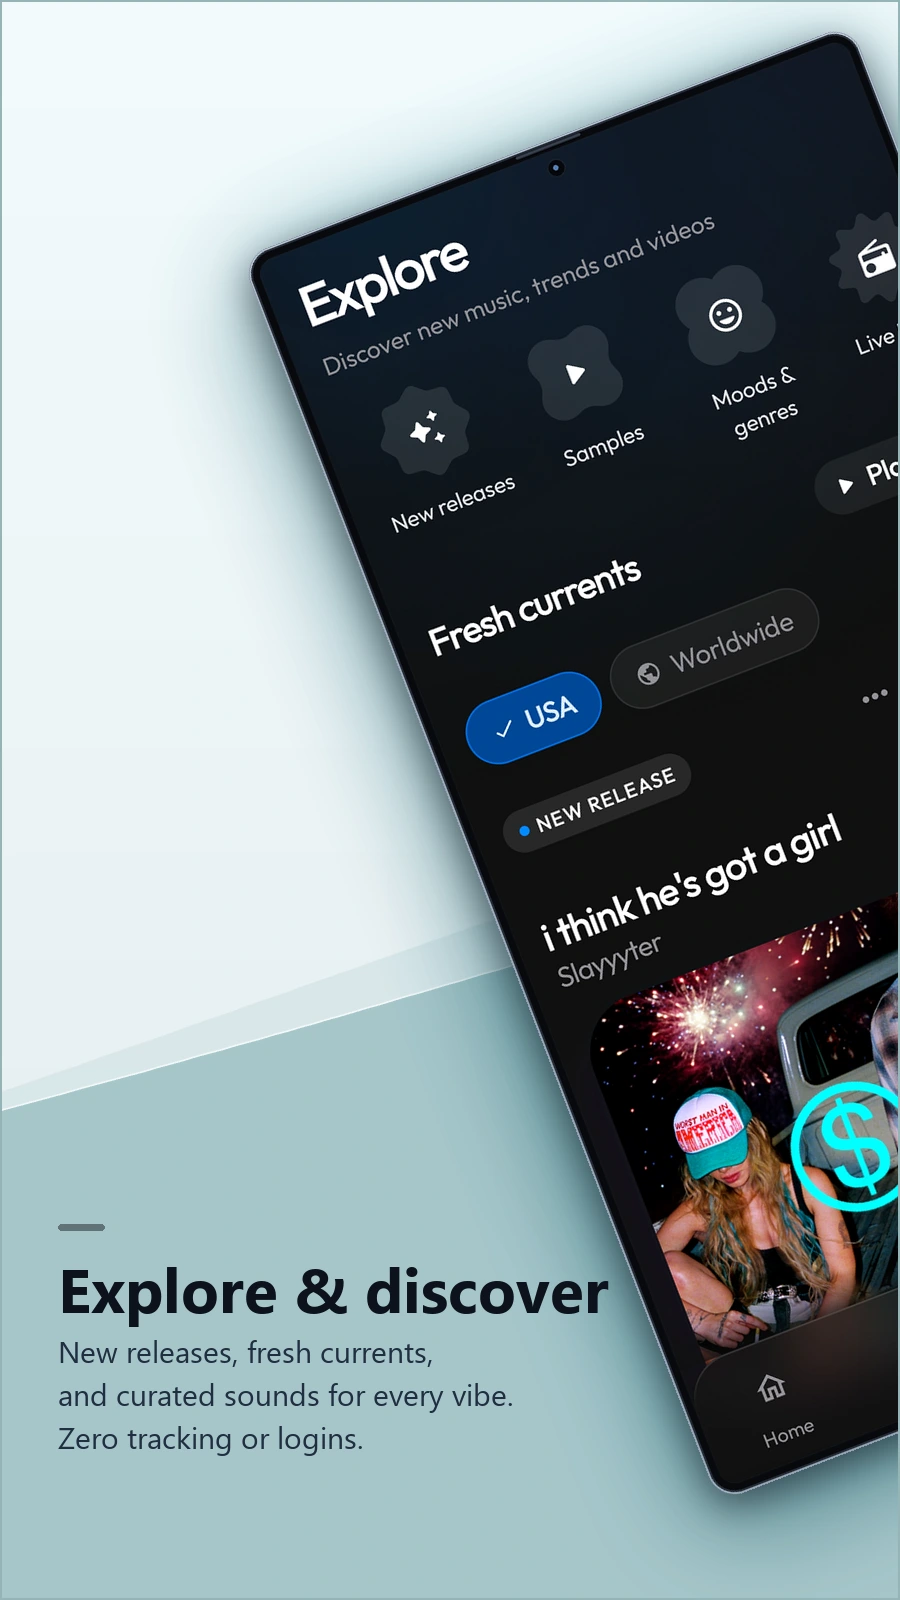
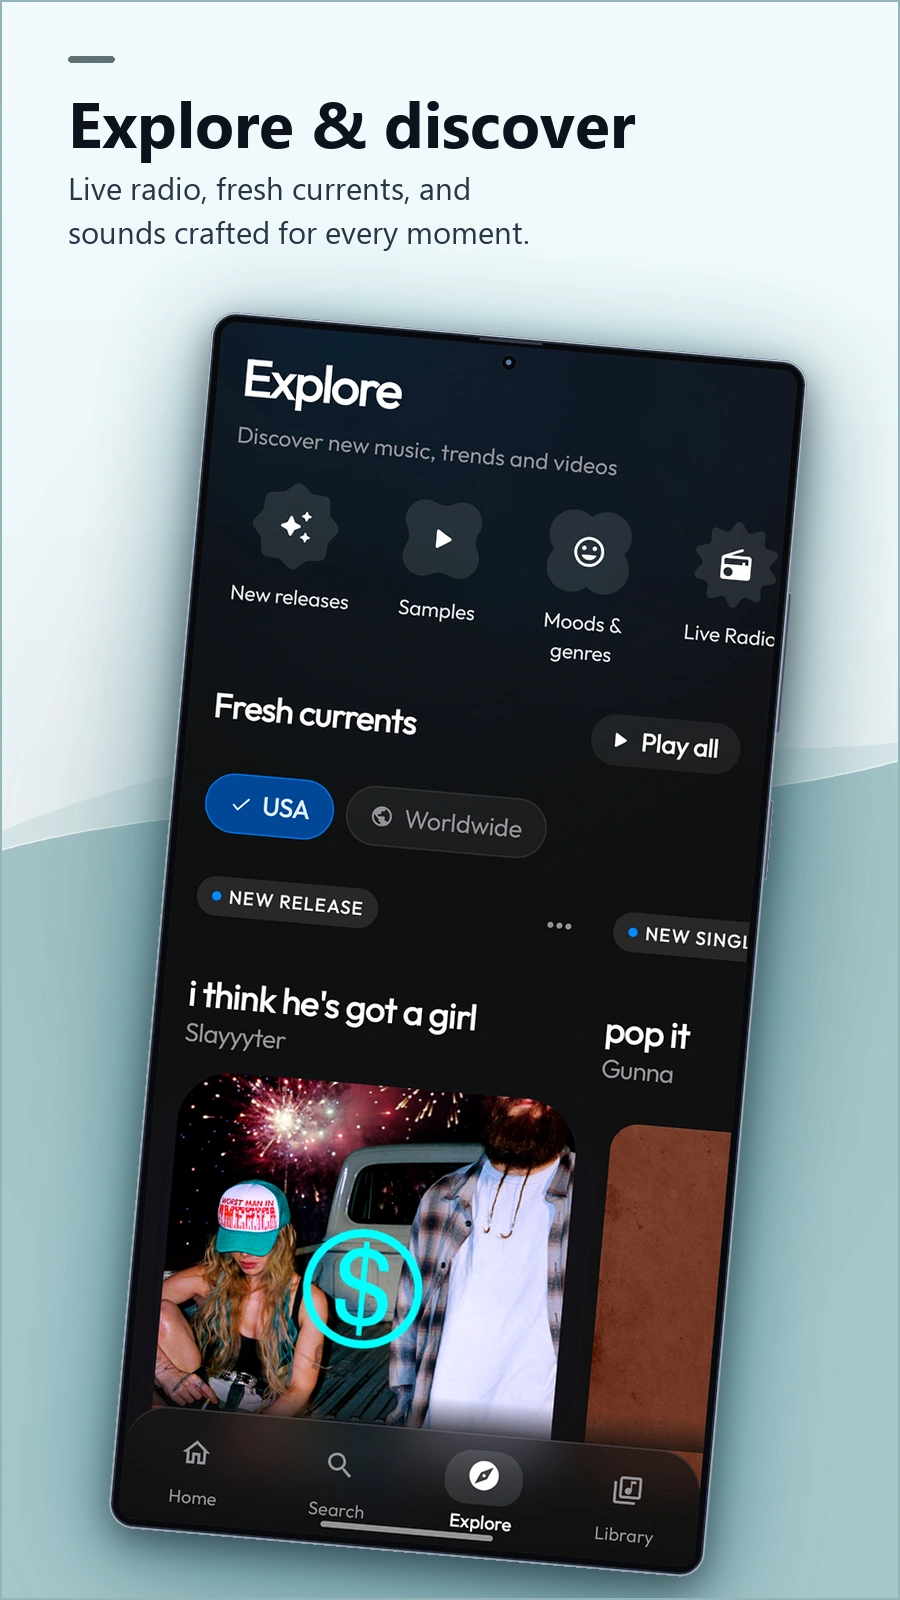
docs(readme): replace cut diptych with symmetrical duo showcase for Explore and Mix

diff --git a/scripts/generate_showcase_assets.py b/scripts/generate_showcase_assets.py
@@ -487,88 +487,69 @@ def generate_explore_mix_card(card_w, card_h):
     bg.convert("RGB").save(out_path, "WEBP", quality=94, method=4)
     print(f"Generated Dual Explore & Mix Card: {out_path}")
 
-def generate_explore_mix_diptych(card_w, card_h):
+def generate_explore_mix_duo(card_w, card_h):
     s1_path = resolve_screenshot_path("Screenshot_20261010_132210_LEVYRA.jpg")
     s2_path = resolve_screenshot_path("Screenshot_20261010_132217_LEVYRA.jpg")
     if not s1_path or not s2_path:
-        print("Skipping explore mix diptych: missing screenshots")
+        print("Skipping explore mix duo: missing screenshots")
         return
 
-    gutter = 20
-    pano_w = card_w * 2 + gutter
-    pano_h = card_h
-
     C_SEAFOAM = ((238, 246, 248), (166, 198, 202), (145, 188, 192))
-    top_tint, accent_tone, glow_tone = C_SEAFOAM
+    C_SAPPHIRE = ((238, 244, 252), (162, 188, 222), (140, 175, 215))
 
-    pano_bg = create_delicate_bg(
-        pano_w,
-        pano_h,
-        top_tint=top_tint,
-        accent_tone=accent_tone,
-        glow_tone=glow_tone,
-        y_start=1110,
-        y_end=580,
+    # Card 05: Explore & discover
+    bg5 = create_delicate_bg(card_w, card_h, C_SEAFOAM[0], C_SEAFOAM[1], C_SEAFOAM[2], y_start=850, y_end=760)
+    draw5 = ImageDraw.Draw(bg5)
+    draw_accent_pill(draw5, 68, 56, C_SEAFOAM[1])
+    draw5.text((68, 78), "Explore & discover", font=get_font(64, bold=True), fill=(12, 18, 28, 255))
+    draw5.multiline_text(
+        (68, 166),
+        "Live radio, fresh currents, and\nsounds crafted for every moment.",
+        font=get_font(31),
+        fill=(40, 54, 68, 255),
+        spacing=10,
     )
-
-    rot_angle = 21.0
-
-    with Image.open(s2_path) as src2:
-        phone_mix = create_clean_phone(src2, target_height=1150)
-    rot_mix = phone_mix.rotate(rot_angle, resample=Image.Resampling.BICUBIC, expand=True)
-
-    g2, gpad2 = create_colored_glow(rot_mix, (25, 125, 245), blur=60, opacity=80, offset_y=20)
-    mix_x = card_w + gutter + 255
-    mix_y = 435
-    pano_bg.paste(g2, (mix_x - gpad2, mix_y - gpad2), g2)
-    paste_phone_with_studio_depth(pano_bg, rot_mix, mix_x, mix_y)
 
     with Image.open(s1_path) as src1:
-        phone_explore = create_clean_phone(src1, target_height=1310)
-    rot_explore = phone_explore.rotate(rot_angle, resample=Image.Resampling.BICUBIC, expand=True)
+        phone1 = create_clean_phone(src1, target_height=1200)
+    rot1 = phone1.rotate(-5, resample=Image.Resampling.BICUBIC, expand=True)
+    glow1, gp1 = create_colored_glow(rot1, (0, 205, 230), blur=55, opacity=70, offset_y=16)
+    px1 = (card_w - rot1.width) // 2 + 10
+    py1 = 310
+    bg5.paste(glow1, (px1 - gp1, py1 - gp1), glow1)
+    paste_phone_with_studio_depth(bg5, rot1, px1, py1)
 
-    g1, gpad1 = create_colored_glow(rot_explore, (0, 205, 230), blur=55, opacity=75, offset_y=16)
-    exp_x = 240
-    exp_y = 22
-    pano_bg.paste(g1, (exp_x - gpad1, exp_y - gpad1), g1)
-    paste_phone_with_studio_depth(pano_bg, rot_explore, exp_x, exp_y)
+    border_col5 = tuple(max(0, int(C_SEAFOAM[1][i] - 18)) for i in range(3))
+    ImageDraw.Draw(bg5).rectangle((0, 0, card_w - 1, card_h - 1), outline=(*border_col5, 90), width=2)
+    bg5.convert("RGB").save(os.path.join(OUT_CARDS_DIR, "05_explore.webp"), "WEBP", quality=94, method=4)
 
-    pdraw = ImageDraw.Draw(pano_bg)
-
-    c1_tx, c1_ty = 58, 1246
-    draw_accent_pill(pdraw, c1_tx, c1_ty - 22, accent_tone)
-    pdraw.text((c1_tx, c1_ty), "Explore & discover", font=get_font(62, bold=True), fill=(12, 18, 28, 255))
-    pdraw.multiline_text(
-        (c1_tx, c1_ty + 84),
-        "New releases, fresh currents,\nand curated sounds for every vibe.\nZero tracking or logins.",
-        font=get_font(30),
-        fill=(32, 46, 64, 255),
-        spacing=10,
-    )
-
-    c2_left = card_w + gutter
-    text_x = c2_left + 215
-    text_y = 78
-    draw_accent_pill(pdraw, text_x, text_y - 22, accent_tone)
-    pdraw.text((text_x, text_y), "Levyra Mix & radio", font=get_font(64, bold=True), fill=(12, 18, 28, 255))
-    pdraw.multiline_text(
-        (text_x, text_y + 86),
-        "Interactive slider between familiar and new.\nLive radio stations streaming 24/7.",
+    # Card 06: Levyra Mix
+    bg6 = create_delicate_bg(card_w, card_h, C_SAPPHIRE[0], C_SAPPHIRE[1], C_SAPPHIRE[2], y_start=760, y_end=850)
+    draw6 = ImageDraw.Draw(bg6)
+    draw_accent_pill(draw6, 68, 56, C_SAPPHIRE[1])
+    draw6.text((68, 78), "Levyra Mix", font=get_font(64, bold=True), fill=(12, 18, 28, 255))
+    draw6.multiline_text(
+        (68, 166),
+        "Interactive slider between familiar and new.\nTuned for right now in one tap.",
         font=get_font(31),
-        fill=(38, 52, 68, 255),
+        fill=(40, 54, 68, 255),
         spacing=10,
     )
 
-    card_05 = pano_bg.crop((0, 0, card_w, card_h))
-    card_06 = pano_bg.crop((c2_left, 0, pano_w, card_h))
+    with Image.open(s2_path) as src2:
+        phone2 = create_clean_phone(src2, target_height=1200)
+    rot2 = phone2.rotate(5, resample=Image.Resampling.BICUBIC, expand=True)
+    glow2, gp2 = create_colored_glow(rot2, (25, 125, 245), blur=55, opacity=75, offset_y=16)
+    px2 = (card_w - rot2.width) // 2 - 10
+    py2 = 310
+    bg6.paste(glow2, (px2 - gp2, py2 - gp2), glow2)
+    paste_phone_with_studio_depth(bg6, rot2, px2, py2)
 
-    border_col = tuple(max(0, int(accent_tone[i] - 18)) for i in range(3))
-    ImageDraw.Draw(card_05).rectangle((0, 0, card_w - 1, card_h - 1), outline=(*border_col, 90), width=2)
-    ImageDraw.Draw(card_06).rectangle((0, 0, card_w - 1, card_h - 1), outline=(*border_col, 90), width=2)
+    border_col6 = tuple(max(0, int(C_SAPPHIRE[1][i] - 18)) for i in range(3))
+    ImageDraw.Draw(bg6).rectangle((0, 0, card_w - 1, card_h - 1), outline=(*border_col6, 90), width=2)
+    bg6.convert("RGB").save(os.path.join(OUT_CARDS_DIR, "06_levyra_mix.webp"), "WEBP", quality=94, method=4)
 
-    card_05.convert("RGB").save(os.path.join(OUT_CARDS_DIR, "05_explore.webp"), "WEBP", quality=93, method=4)
-    card_06.convert("RGB").save(os.path.join(OUT_CARDS_DIR, "06_levyra_mix.webp"), "WEBP", quality=93, method=4)
-    print("Generated Explore Diptych Cards: 05_explore.webp, 06_levyra_mix.webp")
+    print("Generated Explore Duo Cards: 05_explore.webp, 06_levyra_mix.webp")
 
 def generate_feature_cards():
     card_w, card_h = 900, 1600
@@ -650,7 +631,7 @@ def generate_feature_cards():
     print("Generated Hero Cards: 01_home.webp, 02_stay_with_the_song.webp")
 
     generate_explore_mix_card(card_w, card_h)
-    generate_explore_mix_diptych(card_w, card_h)
+    generate_explore_mix_duo(card_w, card_h)
 
     C_CELESTE = ((238, 245, 250), (170, 196, 218), (148, 185, 210))
     C_SAGE = ((238, 246, 242), (168, 198, 188), (145, 185, 172))

diff --git a/README.md b/README.md
@@ -129,8 +129,8 @@ Enhanced Audio is on by default and can be turned off in Audio Settings. Technic
   <a href="docs/assets/showcase/cards/04_player_deck.webp"><img src="docs/assets/showcase/cards/04_player_deck.webp?v=s26ultra-20261010" width="200" alt="Levyra customizable player decks" /></a>
 </p>
 <p align="center">
-  <a href="docs/assets/showcase/cards/05_explore.webp"><img src="docs/assets/showcase/cards/05_explore.webp?v=s26ultra-20261010" width="200" alt="Levyra explore and fresh currents" /></a>
-  <a href="docs/assets/showcase/cards/06_levyra_mix.webp"><img src="docs/assets/showcase/cards/06_levyra_mix.webp?v=s26ultra-20261010" width="200" alt="Levyra custom mix and live radio" /></a>
+  <a href="docs/assets/showcase/cards/05_explore.webp"><img src="docs/assets/showcase/cards/05_explore.webp?v=s26ultra-duo-20261010" width="200" alt="Levyra explore and fresh currents" /></a>
+  <a href="docs/assets/showcase/cards/06_levyra_mix.webp"><img src="docs/assets/showcase/cards/06_levyra_mix.webp?v=s26ultra-duo-20261010" width="200" alt="Levyra custom mix and live radio" /></a>
   <a href="docs/assets/showcase/cards/07_genres.webp"><img src="docs/assets/showcase/cards/07_genres.webp?v=s26ultra-20261010" width="200" alt="Levyra moods and genres" /></a>
   <a href="docs/assets/showcase/cards/08_audio_tuning.webp"><img src="docs/assets/showcase/cards/08_audio_tuning.webp?v=s26ultra-20261010" width="200" alt="Levyra audio tuning and playback engine" /></a>
 </p>
